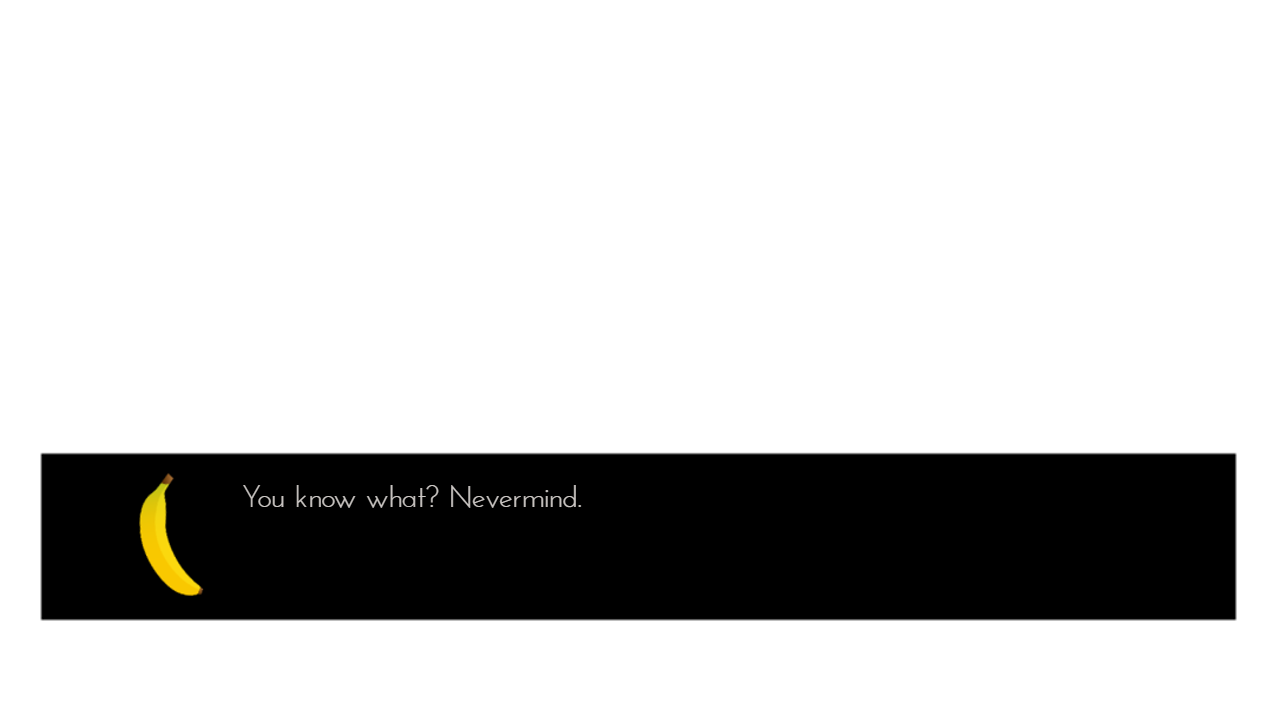
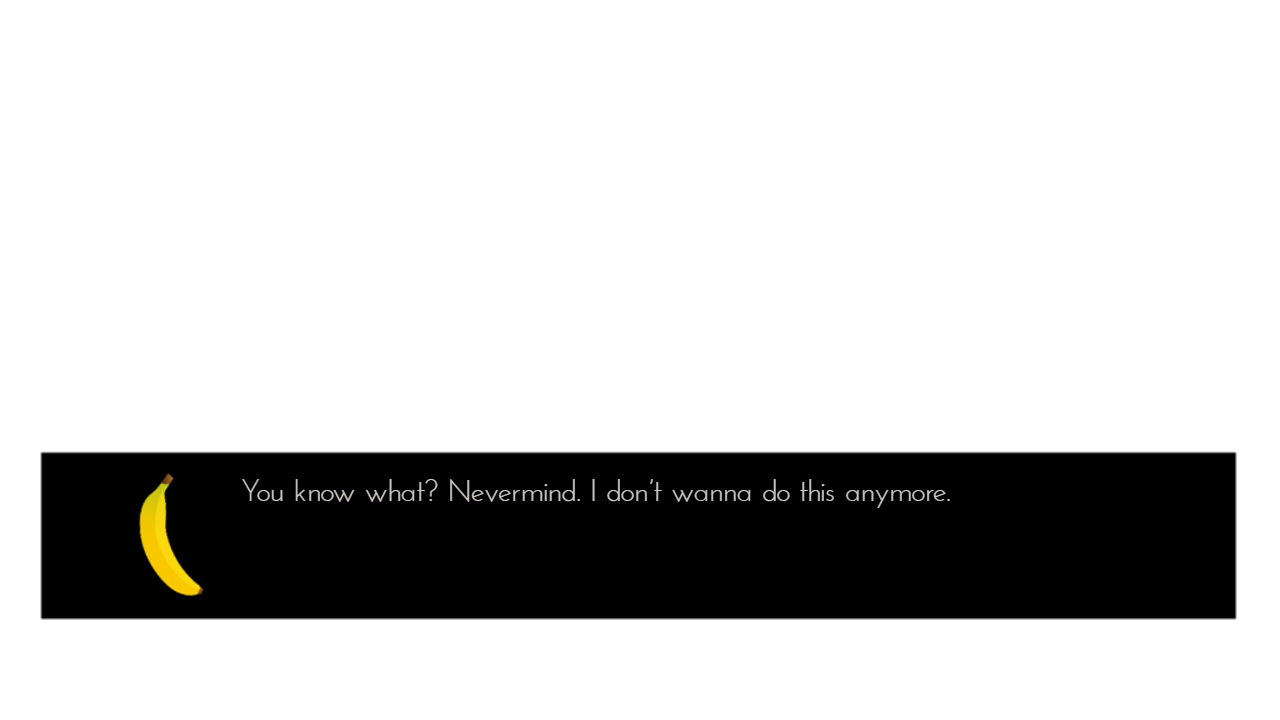
added revamped dialogue for room 2-1 and before

Changed region(s): [[0.0312, 0.8556, 0.9688, 0.8861], [0.0312, 0.6111, 0.9688, 0.6417], [0.1875, 0.6722, 0.75, 0.7028]]

diff --git a/Gamefx/LevelOne.java b/Gamefx/LevelOne.java
@@ -140,6 +140,10 @@ public class LevelOne
       ba6.setPreserveRatio(true);
       ba6.setFitWidth(1280);
       ba6.setFitHeight(720); 
+      ImageView ba7 = new ImageView(new Image("/Images/Room1/Dialogue/BA7.png"));
+      ba7.setPreserveRatio(true);
+      ba7.setFitWidth(1280);
+      ba7.setFitHeight(720); 
       ImageView keyD = new ImageView(new Image("/Images/Room1/Dialogue/key.png"));
       keyD.setPreserveRatio(true);
       keyD.setFitWidth(1280);
@@ -181,6 +185,7 @@ public class LevelOne
       baDialogue.add(ba4);
       baDialogue.add(ba5);
       baDialogue.add(ba6);
+      baDialogue.add(ba7);
       Group root = new Group();
       root.getChildren().add(scenes.get(0));
       root.getChildren().add(mc1);
@@ -274,7 +279,7 @@ public class LevelOne
                   }
                   else if (root.getChildren().indexOf(topDownBanana) != -1 && x >= 30 && x <= 1245 && y >= 440 && y <= 630)
                   {
-                     if (bananaDialogueIndex.get() < 6)
+                     if (bananaDialogueIndex.get() < 7)
                      {
                         root.getChildren().remove(baDialogue.get(bananaDialogueIndex.get()-1));
                         root.getChildren().add(baDialogue.get(bananaDialogueIndex.get()));
@@ -343,24 +348,6 @@ public class LevelOne
             }
          });
          
-      scene.setOnKeyReleased(new EventHandler<KeyEvent>() {
-            @Override
-            public void handle(KeyEvent event) {
-                if (event.getCode() == KeyCode.SPACE && getWin())
-                {
-                  for (int i = 0; i < root.getChildren().size(); i++)
-                  {
-                     root.getChildren().remove(i);
-                  }
-                  beaten.set(false);
-                  keyGone.set(false);
-                  chestOpen.set(false);
-                  bananaDialogueIndex.set(0);
-                  root.getChildren().add(scenes.get(0));
-                  root.getChildren().add(mc1);
-                }
-            }
-        });
            
       return scene;
    }

diff --git a/Gamefx/LevelTwo.java b/Gamefx/LevelTwo.java
@@ -178,10 +178,6 @@ public class LevelTwo
       ba4_1_3.setPreserveRatio(true);
       ba4_1_3.setFitWidth(1280);
       ba4_1_3.setFitHeight(720);
-      ImageView ba4_1_4 = new ImageView(new Image("/Images/Room2/Dialogue/BA4.1.4.png"));
-      ba4_1_4.setPreserveRatio(true);
-      ba4_1_4.setFitWidth(1280);
-      ba4_1_4.setFitHeight(720);
       ImageView crowbar_dialogue = new ImageView(new Image("/Images/Room2/Dialogue/crowbar.png"));
       crowbar_dialogue.setPreserveRatio(true);
       crowbar_dialogue.setFitWidth(1280);
@@ -362,11 +358,6 @@ public class LevelTwo
                         else if (root.getChildren().indexOf(ba4_1_3) != -1)
                         {
                            root.getChildren().remove(ba4_1_3);
-                           root.getChildren().add(ba4_1_4);
-                        }
-                        else if (root.getChildren().indexOf(ba4_1_4) != -1)
-                        {
-                           root.getChildren().remove(ba4_1_4);
                            root.getChildren().remove(0);
                            scenes.set(scenes.indexOf(rightBanana2),rightEmpty);
                            root.getChildren().add(0,scenes.get(index));

diff --git a/Gamefx/Main.java b/Gamefx/Main.java
@@ -84,7 +84,7 @@ public class Main extends Application {
                   //System.out.println(x + ", " + y); //helper. will be removed
                   if (x >= 90 && x <= 195 && y >= 430 && y <= 455)
                   {
-                     stage.setScene(lvl1);
+                     stage.setScene(lvl2);
                   }
                   else if (x >= 90 && x <= 350 && y >= 485 && y <= 515)
                   {
